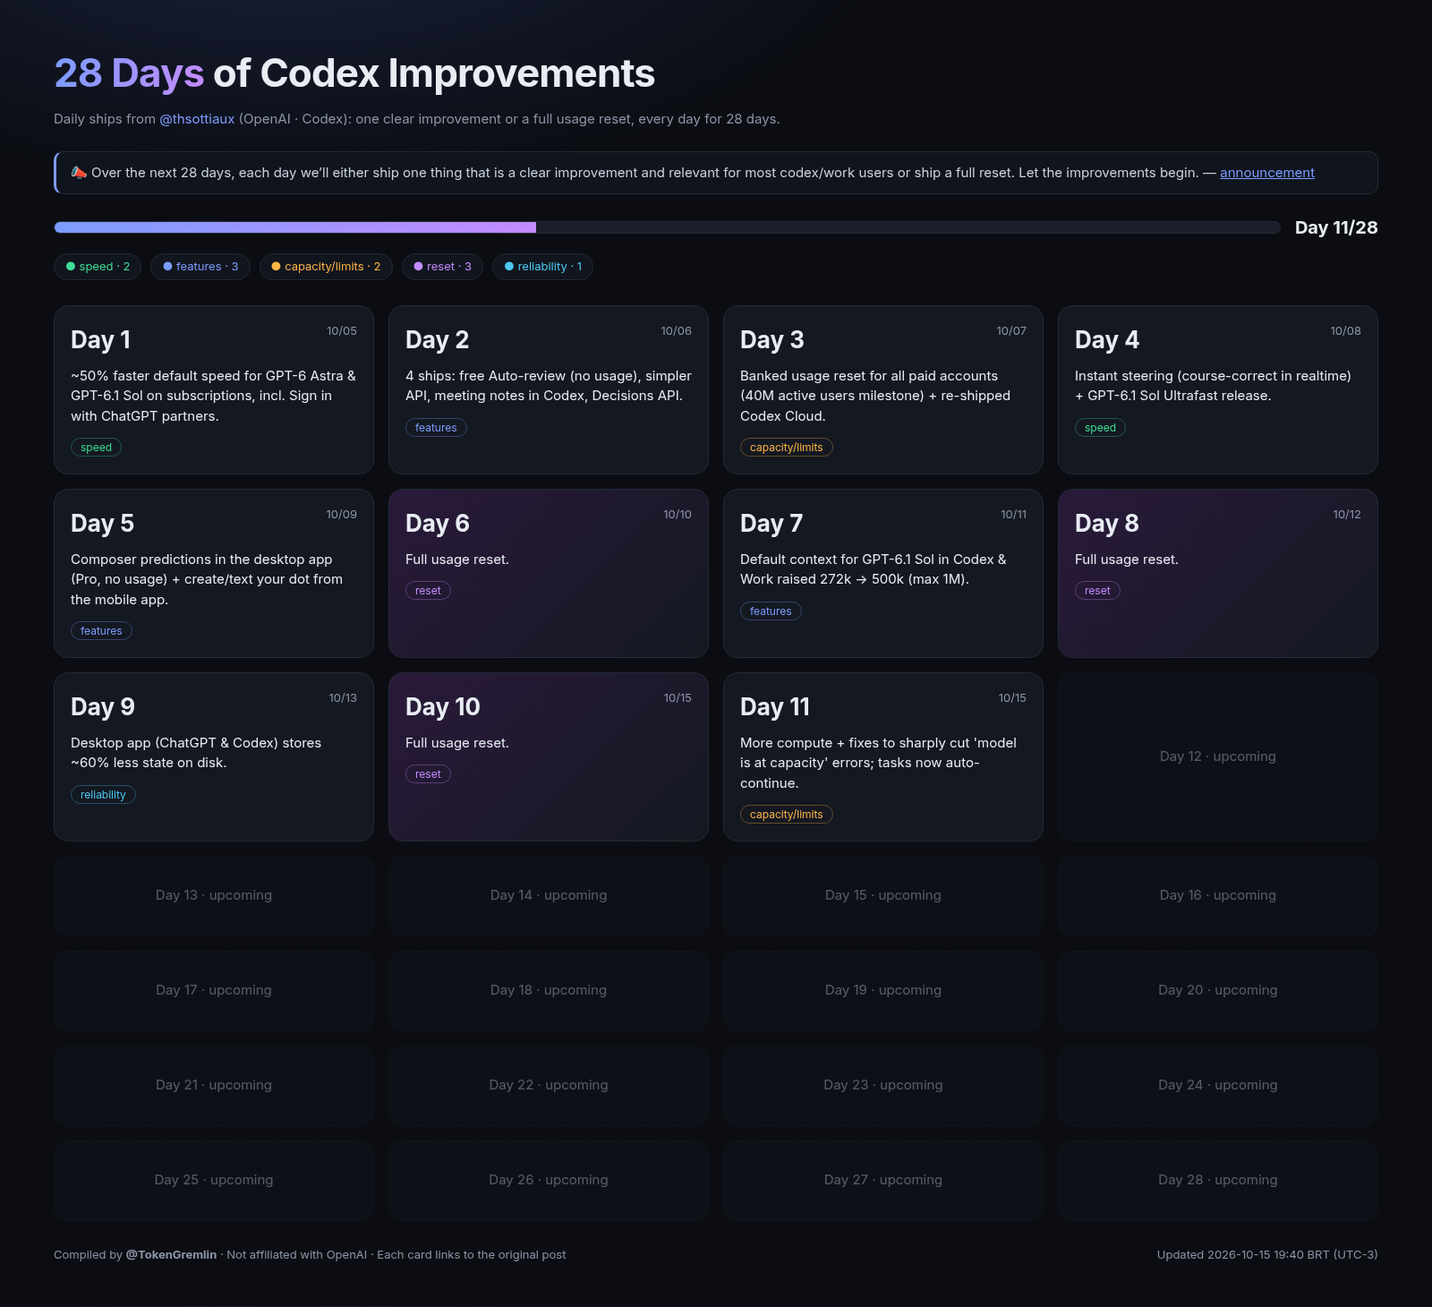
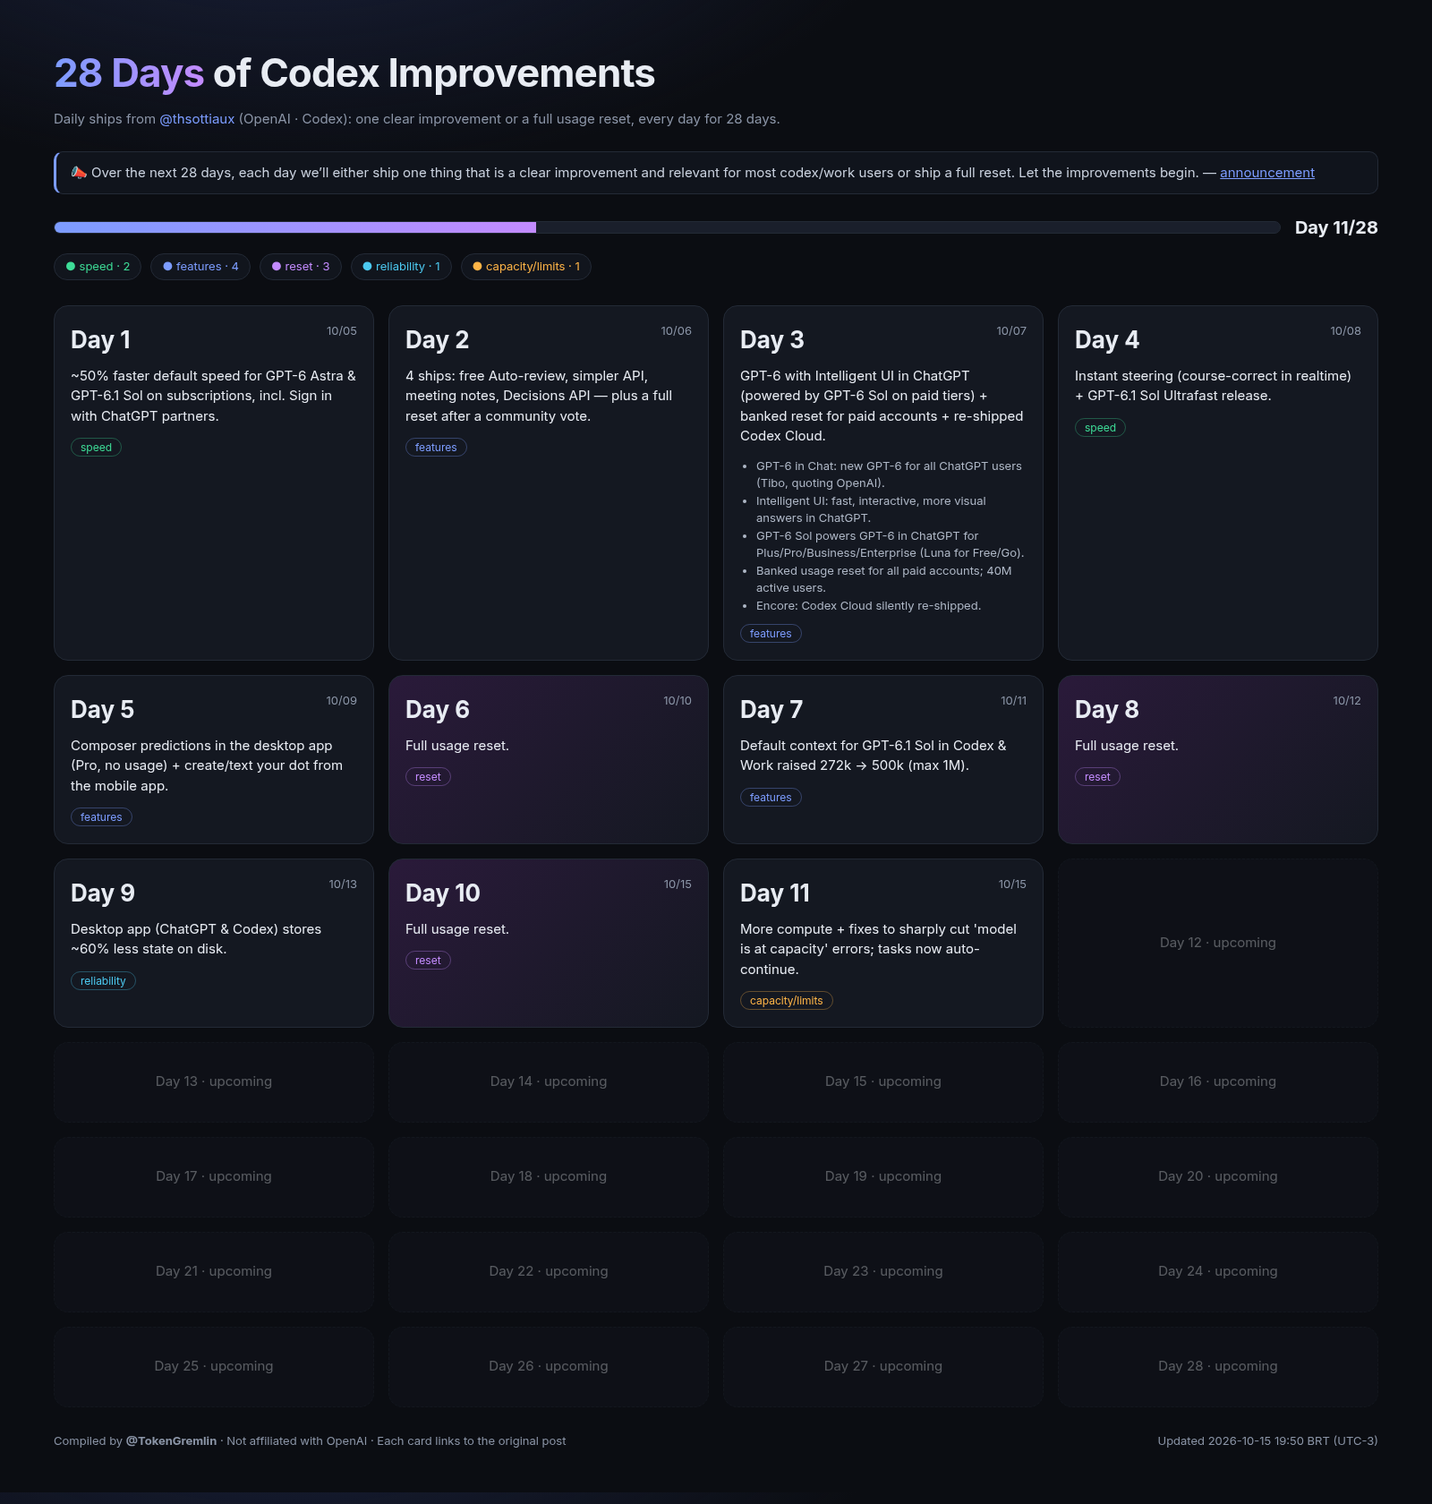
Fix Day 3 and add missed details

diff --git a/index.html b/index.html
@@ -25,7 +25,7 @@ footer{margin-top:28px;color:var(--mut);font-size:13px;display:flex;justify-cont
 <div class="legend" id="legend"></div><div class="grid" id="grid"></div>
 <footer><span>Compiled by <b>@TokenGremlin</b> · Not affiliated with OpenAI · Each card links to the original post</span><span id="upd"></span></footer>
 </div>
-<script id="embedded" type="application/json">{"title": "28 Days of Codex Improvements", "author": "@thsottiaux", "compiled_by": "@TokenGremlin", "timezone": "BRT (UTC-3)", "updated": "2026-10-15 19:40", "total": 28, "announcement": {"date": "2026-10-04 17:33", "url": "https://x.com/i/status/2106845241357824205", "text": "Over the next 28 days, each day we’ll either ship one thing that is a clear improvement and relevant for most codex/work users or ship a full reset. Let the improvements begin."}, "days": [{"day": 1, "date": "2026-10-05 14:20", "ids": ["2107158998495748264"], "category": "speed", "text": "Day 1/\n\nWe have optimized the default speed to be ~50% faster across GPT-6 Astra and GPT-6.1 Sol through the subscription across all our products and partners using Sign in With ChatGPT (including OpenCode, Pi, Amp, Devin, ...).\n\nNo changes needed on your end and this should be felt within the next two hours.", "en": "~50% faster default speed for GPT-6 Astra & GPT-6.1 Sol on subscriptions, incl. Sign in with ChatGPT partners.", "pt": "Velocidade padrão ~50% maior no GPT-6 Astra e GPT-6.1 Sol nas assinaturas, inclusive parceiros (OpenCode, Amp, Devin…).", "url": "https://x.com/i/status/2107158998495748264", "urls": ["https://x.com/i/status/2107158998495748264"]}, {"day": 2, "date": "2026-10-06 04:13", "ids": ["2107368734981517634", "2107548725359104441", "2107573405553938664", "2107574912349303197", "2107575657014468879"], "category": "features", "text": "Roundup of Day 2/\n\n2.1/ Approve for me (auto-review) is now included and does not use usage. Can be between 2-10% of plan when used. Also better for you.\n2.2/ Simplified API for builders.\n2.3/ Meeting notes integrated.\n2.4/ Decisions API live for builders. Will use in the app to improve the experience.", "en": "4 ships: free Auto-review (no usage), simpler API, meeting notes in Codex, Decisions API.", "pt": "4 entregas: Auto-review grátis (sem gastar uso), API simplificada, notas de reunião no Codex e Decisions API.", "note": "Posted as Day 2.1–2.4 (Oct 6, 04:13–17:53 BRT) plus a roundup; followed by a poll 'Four updates or a reset'.", "url": "https://x.com/i/status/2107368734981517634", "urls": ["https://x.com/i/status/2107368734981517634", "https://x.com/i/status/2107548725359104441", "https://x.com/i/status/2107573405553938664", "https://x.com/i/status/2107574912349303197", "https://x.com/i/status/2107575657014468879"]}, {"day": 3, "date": "2026-10-07 16:19", "ids": ["2107913674593644711", "2108084615349170480"], "category": "capacity/limits", "text": "Day 3/\n\nThe big one is GPT-6 in Chat, but today is also a little celebration day with a new high of 40M active users across Codex and ChatGPT Work.\n\nLoading a banked reset in everyone's paid accounts. See you again tomorrow!\n\n---\nDay 3 (encore)/\n\nWe silently re-shipped codex cloud. It’s pretty good now", "en": "Banked usage reset for all paid accounts (40M active users milestone) + re-shipped Codex Cloud.", "pt": "Reset de uso “guardado” em todas as contas pagas (marco de 40M usuários) + Codex Cloud relançado.", "url": "https://x.com/i/status/2107913674593644711", "urls": ["https://x.com/i/status/2107913674593644711", "https://x.com/i/status/2108084615349170480"]}, {"day": 4, "date": "2026-10-08 16:15", "ids": ["2108275041276420573"], "category": "speed", "text": "Day 4/\n\nWe have improved steering to be instant, leading to the model now reacting much faster to adjustments you make, allowing you to course-correct direction in realtime and not have the model waste effort.\n\nAlso releasing GPT-6.1 Sol ultrafast. The two work very well together.", "en": "Instant steering (course-correct in realtime) + GPT-6.1 Sol Ultrafast release.", "pt": "Steering instantâneo (corrigir o rumo em tempo real) + lançamento do GPT-6.1 Sol Ultrafast.", "url": "https://x.com/i/status/2108275041276420573", "urls": ["https://x.com/i/status/2108275041276420573"]}, {"day": 5, "date": "2026-10-09 16:47", "ids": ["2108645667451318747", "2108646052178092403"], "category": "features", "text": "Day 5/\n\nComposer predictions in the desktop app. Often leads to a double take with how on point they are. Included in the Pro plans without consuming usage.\n\n---\nDay 5 (dots edition)/\n\nYou can now create and text your dot entirely from the ChatGPT mobile app. Impressed so many created them via the desktop/web app previously. Time to scale!", "en": "Composer predictions in the desktop app (Pro, no usage) + create/text your dot from the mobile app.", "pt": "Previsões no composer do app desktop (Pro, sem gastar uso) + criar e conversar com seu dot no app mobile.", "url": "https://x.com/i/status/2108645667451318747", "urls": ["https://x.com/i/status/2108645667451318747", "https://x.com/i/status/2108646052178092403"]}, {"day": 6, "date": "2026-10-10 19:15", "ids": ["2109045220411351517"], "category": "reset", "text": "Day 6/ Reset", "en": "Full usage reset.", "pt": "Reset completo de uso.", "url": "https://x.com/i/status/2109045220411351517", "urls": ["https://x.com/i/status/2109045220411351517"]}, {"day": 7, "date": "2026-10-11 20:45", "ids": ["2109430343346581527"], "category": "features", "text": "Day 7/\n\nWe have increased default context length for GPT-6.1 Sol to 500k when used through Codex & Work, up from 272k or an ~ 80% increase.\n\nWe will go higher in the future, but it helps reduce occurrence of compactions and with tasks that require keeping a lot of context and nuance over periods of time. It was carefully tested and is the new sweet spot for most of our users. You can still override it if you want to be higher our lower, with maximum context length of GPT-6.1 Sol of 1M.", "en": "Default context for GPT-6.1 Sol in Codex & Work raised 272k → 500k (max 1M).", "pt": "Contexto padrão do GPT-6.1 Sol no Codex e Work subiu de 272k pra 500k (máx. 1M).", "url": "https://x.com/i/status/2109430343346581527", "urls": ["https://x.com/i/status/2109430343346581527"]}, {"day": 8, "date": "2026-10-12 22:03", "ids": ["2109812216212099456"], "category": "reset", "text": "Day 8/ Reset", "en": "Full usage reset.", "pt": "Reset completo de uso.", "url": "https://x.com/i/status/2109812216212099456", "urls": ["https://x.com/i/status/2109812216212099456"]}, {"day": 9, "date": "2026-10-13 20:32", "ids": ["2110151780478927344"], "category": "reliability", "text": "Day 9/\n\nWe've rolled out optimizations to how we store state on disk for the chatgpt & codex desktop app that should reduce the amount stored on disk by 60%. Small ship but we've heard enough feedback about power users running out of disk space.", "en": "Desktop app (ChatGPT & Codex) stores ~60% less state on disk.", "pt": "App desktop (ChatGPT e Codex) passa a ocupar ~60% menos espaço em disco.", "note": "Same text was first posted 20s earlier mislabeled 'Day 8/' (2110151690641154499).", "url": "https://x.com/i/status/2110151780478927344", "urls": ["https://x.com/i/status/2110151780478927344"]}, {"day": 10, "date": "2026-10-15 01:55", "ids": ["2110595484180214059"], "category": "reset", "text": "The reports of my reset button being lost are greatly exaggerated\n\nDay 10/ Reset", "en": "Full usage reset.", "pt": "Reset completo de uso.", "url": "https://x.com/i/status/2110595484180214059", "urls": ["https://x.com/i/status/2110595484180214059"]}, {"day": 11, "date": "2026-10-15 12:11", "ids": ["2110750421367287996"], "category": "capacity/limits", "text": "Day 11/\n\nWe've landed a series of changes and more compute to very significantly decrease the occurrence of the disruptive \"Selected model is at capacity. Please try a different model\". When it does happen, it should also eventually just continue by itself and not just block on it.\n\nLet us know if you still see it out there in the wild and we'll take a look.", "en": "More compute + fixes to sharply cut 'model is at capacity' errors; tasks now auto-continue.", "pt": "Mais compute e ajustes pra reduzir muito o erro “model is at capacity”; agora a tarefa continua sozinha.", "url": "https://x.com/i/status/2110750421367287996", "urls": ["https://x.com/i/status/2110750421367287996"]}]}</script>
+<script id="embedded" type="application/json">{"title": "28 Days of Codex Improvements", "author": "@thsottiaux", "compiled_by": "@TokenGremlin", "timezone": "BRT (UTC-3)", "updated": "2026-10-15 19:50", "total": 28, "announcement": {"date": "2026-10-04 17:33", "url": "https://x.com/i/status/2106845241357824205", "text": "Over the next 28 days, each day we’ll either ship one thing that is a clear improvement and relevant for most codex/work users or ship a full reset. Let the improvements begin."}, "days": [{"day": 1, "date": "2026-10-05 14:20", "ids": ["2107158998495748264"], "category": "speed", "text": "Day 1/\n\nWe have optimized the default speed to be ~50% faster across GPT-6 Astra and GPT-6.1 Sol through the subscription across all our products and partners using Sign in With ChatGPT (including OpenCode, Pi, Amp, Devin, ...).\n\nNo changes needed on your end and this should be felt within the next two hours.", "en": "~50% faster default speed for GPT-6 Astra & GPT-6.1 Sol on subscriptions, incl. Sign in with ChatGPT partners.", "pt": "Velocidade padrão ~50% maior no GPT-6 Astra e GPT-6.1 Sol nas assinaturas, inclusive parceiros (OpenCode, Amp, Devin…).", "url": "https://x.com/i/status/2107158998495748264", "urls": ["https://x.com/i/status/2107158998495748264"], "items": [{"en": "Reply: reaching 50 TPS instead of 30 TPS, with a highly optimized tokenizer.", "pt": "Resposta: 50 TPS em vez de 30 TPS, com tokenizer bem otimizado.", "url": "https://x.com/i/status/2107159119107146237"}]}, {"day": 2, "date": "2026-10-06 04:13", "ids": ["2107368734981517634", "2107548725359104441", "2107573405553938664", "2107574912349303197", "2107575657014468879", "2107676072871600470"], "category": "features", "text": "Roundup of Day 2/\n\n2.1/ Approve for me (auto-review) is now included and does not use usage. Can be between 2-10% of plan when used. Also better for you.\n2.2/ Simplified API for builders.\n2.3/ Meeting notes integrated.\n2.4/ Decisions API live for builders. Will use in the app to improve the experience.", "en": "4 ships: free Auto-review, simpler API, meeting notes, Decisions API — plus a full reset after a community vote.", "pt": "4 entregas: Auto-review grátis, API simplificada, notas de reunião, Decisions API — e ainda um reset completo após votação.", "note": "Posted as Day 2.1–2.4 (Oct 6, 04:13–17:53 BRT) plus a roundup; followed by a poll 'Four updates or a reset'.", "url": "https://x.com/i/status/2107368734981517634", "urls": ["https://x.com/i/status/2107368734981517634", "https://x.com/i/status/2107548725359104441", "https://x.com/i/status/2107573405553938664", "https://x.com/i/status/2107574912349303197", "https://x.com/i/status/2107575657014468879", "https://x.com/i/status/2107676072871600470"], "items": [{"en": "Vote won by 'reset': full usage reset processed, improvements kept.", "pt": "A votação deu 'reset': reset completo feito, sem desfazer as melhorias.", "url": "https://x.com/i/status/2107676072871600470"}]}, {"day": 3, "date": "2026-10-07 16:19", "ids": ["2107913674593644711", "2108084615349170480", "2107912709715132482", "2107894997538525580", "2107895006350791071"], "category": "features", "text": "Day 3/\n\nThe big one is GPT-6 in Chat, but today is also a little celebration day with a new high of 40M active users across Codex and ChatGPT Work.\n\nLoading a banked reset in everyone's paid accounts. See you again tomorrow!\n\n---\nDay 3 (encore)/\n\nWe silently re-shipped codex cloud. It’s pretty good now", "en": "GPT-6 with Intelligent UI in ChatGPT (powered by GPT-6 Sol on paid tiers) + banked reset for paid accounts + re-shipped Codex Cloud.", "pt": "GPT-6 com Intelligent UI no ChatGPT (GPT-6 Sol nos planos pagos) + reset guardado nas contas pagas + Codex Cloud relançado.", "url": "https://x.com/i/status/2107913674593644711", "urls": ["https://x.com/i/status/2107913674593644711", "https://x.com/i/status/2108084615349170480", "https://x.com/i/status/2107912709715132482", "https://x.com/i/status/2107894997538525580", "https://x.com/i/status/2107895006350791071"], "items": [{"en": "GPT-6 in Chat: new GPT-6 for all ChatGPT users (Tibo, quoting OpenAI).", "pt": "GPT-6 no Chat: novo GPT-6 pra todos no ChatGPT (Tibo citando a OpenAI).", "url": "https://x.com/i/status/2107912709715132482"}, {"en": "Intelligent UI: fast, interactive, more visual answers in ChatGPT.", "pt": "Intelligent UI: respostas rápidas, interativas e mais visuais no ChatGPT.", "url": "https://x.com/OpenAI/status/2107894997538525580"}, {"en": "GPT-6 Sol powers GPT-6 in ChatGPT for Plus/Pro/Business/Enterprise (Luna for Free/Go).", "pt": "GPT-6 Sol roda o GPT-6 no ChatGPT pra Plus/Pro/Business/Enterprise (Luna no Free/Go).", "url": "https://x.com/OpenAI/status/2107895006350791071"}, {"en": "Banked usage reset for all paid accounts; 40M active users.", "pt": "Reset guardado em todas as contas pagas; 40M usuários ativos.", "url": "https://x.com/i/status/2107913674593644711"}, {"en": "Encore: Codex Cloud silently re-shipped.", "pt": "Encore: Codex Cloud relançado.", "url": "https://x.com/i/status/2108084615349170480"}], "note": "Tibo's Day 3 post only says 'The big one is GPT-6 in Chat'. OpenAI calls the feature 'Intelligent UI' (not 'Smart UI'); the GPT-6 Sol detail comes from OpenAI's thread."}, {"day": 4, "date": "2026-10-08 16:15", "ids": ["2108275041276420573"], "category": "speed", "text": "Day 4/\n\nWe have improved steering to be instant, leading to the model now reacting much faster to adjustments you make, allowing you to course-correct direction in realtime and not have the model waste effort.\n\nAlso releasing GPT-6.1 Sol ultrafast. The two work very well together.", "en": "Instant steering (course-correct in realtime) + GPT-6.1 Sol Ultrafast release.", "pt": "Steering instantâneo (corrigir o rumo em tempo real) + lançamento do GPT-6.1 Sol Ultrafast.", "url": "https://x.com/i/status/2108275041276420573", "urls": ["https://x.com/i/status/2108275041276420573"]}, {"day": 5, "date": "2026-10-09 16:47", "ids": ["2108645667451318747", "2108646052178092403"], "category": "features", "text": "Day 5/\n\nComposer predictions in the desktop app. Often leads to a double take with how on point they are. Included in the Pro plans without consuming usage.\n\n---\nDay 5 (dots edition)/\n\nYou can now create and text your dot entirely from the ChatGPT mobile app. Impressed so many created them via the desktop/web app previously. Time to scale!", "en": "Composer predictions in the desktop app (Pro, no usage) + create/text your dot from the mobile app.", "pt": "Previsões no composer do app desktop (Pro, sem gastar uso) + criar e conversar com seu dot no app mobile.", "url": "https://x.com/i/status/2108645667451318747", "urls": ["https://x.com/i/status/2108645667451318747", "https://x.com/i/status/2108646052178092403"]}, {"day": 6, "date": "2026-10-10 19:15", "ids": ["2109045220411351517"], "category": "reset", "text": "Day 6/ Reset", "en": "Full usage reset.", "pt": "Reset completo de uso.", "url": "https://x.com/i/status/2109045220411351517", "urls": ["https://x.com/i/status/2109045220411351517"]}, {"day": 7, "date": "2026-10-11 20:45", "ids": ["2109430343346581527"], "category": "features", "text": "Day 7/\n\nWe have increased default context length for GPT-6.1 Sol to 500k when used through Codex & Work, up from 272k or an ~ 80% increase.\n\nWe will go higher in the future, but it helps reduce occurrence of compactions and with tasks that require keeping a lot of context and nuance over periods of time. It was carefully tested and is the new sweet spot for most of our users. You can still override it if you want to be higher our lower, with maximum context length of GPT-6.1 Sol of 1M.", "en": "Default context for GPT-6.1 Sol in Codex & Work raised 272k → 500k (max 1M).", "pt": "Contexto padrão do GPT-6.1 Sol no Codex e Work subiu de 272k pra 500k (máx. 1M).", "url": "https://x.com/i/status/2109430343346581527", "urls": ["https://x.com/i/status/2109430343346581527"], "items": [{"en": "Reply: no long-context fees for GPT-6.1 Sol when drawing usage from the subscription.", "pt": "Resposta: sem taxa de contexto longo no GPT-6.1 Sol usando a assinatura.", "url": "https://x.com/i/status/2109430894604026039"}]}, {"day": 8, "date": "2026-10-12 22:03", "ids": ["2109812216212099456"], "category": "reset", "text": "Day 8/ Reset", "en": "Full usage reset.", "pt": "Reset completo de uso.", "url": "https://x.com/i/status/2109812216212099456", "urls": ["https://x.com/i/status/2109812216212099456"]}, {"day": 9, "date": "2026-10-13 20:32", "ids": ["2110151780478927344"], "category": "reliability", "text": "Day 9/\n\nWe've rolled out optimizations to how we store state on disk for the chatgpt & codex desktop app that should reduce the amount stored on disk by 60%. Small ship but we've heard enough feedback about power users running out of disk space.", "en": "Desktop app (ChatGPT & Codex) stores ~60% less state on disk.", "pt": "App desktop (ChatGPT e Codex) passa a ocupar ~60% menos espaço em disco.", "note": "Same text was first posted 20s earlier mislabeled 'Day 8/' (2110151690641154499).", "url": "https://x.com/i/status/2110151780478927344", "urls": ["https://x.com/i/status/2110151780478927344"]}, {"day": 10, "date": "2026-10-15 01:55", "ids": ["2110595484180214059"], "category": "reset", "text": "The reports of my reset button being lost are greatly exaggerated\n\nDay 10/ Reset", "en": "Full usage reset.", "pt": "Reset completo de uso.", "url": "https://x.com/i/status/2110595484180214059", "urls": ["https://x.com/i/status/2110595484180214059"]}, {"day": 11, "date": "2026-10-15 12:11", "ids": ["2110750421367287996"], "category": "capacity/limits", "text": "Day 11/\n\nWe've landed a series of changes and more compute to very significantly decrease the occurrence of the disruptive \"Selected model is at capacity. Please try a different model\". When it does happen, it should also eventually just continue by itself and not just block on it.\n\nLet us know if you still see it out there in the wild and we'll take a look.", "en": "More compute + fixes to sharply cut 'model is at capacity' errors; tasks now auto-continue.", "pt": "Mais compute e ajustes pra reduzir muito o erro “model is at capacity”; agora a tarefa continua sozinha.", "url": "https://x.com/i/status/2110750421367287996", "urls": ["https://x.com/i/status/2110750421367287996"]}]}</script>
 <script>
 const C={"speed":"#3ddc97","features":"#7c9cff","capacity/limits":"#ffb547","reliability":"#4cc9f0","reset":"#c38bff","pricing":"#ff6b8a"};
 const esc=s=>s.replace(/[&<>"]/g,c=>({"&":"&amp;","<":"&lt;",">":"&gt;",'"':"&quot;"}[c]));
@@ -40,7 +40,7 @@ function render(d){
  for(let i=1;i<=d.total;i++){const x=by[i];
   if(!x){h+=`<div class="card ph">${i<=done?'Day '+i+' · not found':'Day '+i+' · upcoming'}</div>`;continue}
   const c=C[x.category]||"#ccc";
-  h+=`<a class="card ${x.category=='reset'?'reset':''}" href="${x.url}" target="_blank"><div class="n"><b>Day ${x.day}</b><span>${x.date.slice(5,10).replace('-','/')}</span></div><p>${esc(x.en)}</p><span class="tag" style="color:${c};border:1px solid ${c}55">${x.category}</span></a>`}
+  h+=`<a class="card ${x.category=='reset'?'reset':''}" href="${x.url}" target="_blank"><div class="n"><b>Day ${x.day}</b><span>${x.date.slice(5,10).replace('-','/')}</span></div><p>${esc(x.en)}</p>${(x.items||[]).length>1?`<ul style="margin:0 0 10px;padding-left:18px;font-size:13px;color:#aeb7c6">${x.items.map(i=>`<li>${esc(i.en)}</li>`).join("")}</ul>`:""}<span class="tag" style="color:${c};border:1px solid ${c}55">${x.category}</span></a>`}
  grid.innerHTML=h;upd.textContent=`Updated ${d.updated} ${d.timezone}`;
 }
 fetch("data.json",{cache:"no-store"}).then(r=>r.json()).then(render).catch(()=>render(JSON.parse(embedded.textContent)));

diff --git a/template.html b/template.html
@@ -40,7 +40,7 @@ function render(d){
  for(let i=1;i<=d.total;i++){const x=by[i];
   if(!x){h+=`<div class="card ph">${i<=done?'Day '+i+' · not found':'Day '+i+' · upcoming'}</div>`;continue}
   const c=C[x.category]||"#ccc";
-  h+=`<a class="card ${x.category=='reset'?'reset':''}" href="${x.url}" target="_blank"><div class="n"><b>Day ${x.day}</b><span>${x.date.slice(5,10).replace('-','/')}</span></div><p>${esc(x.en)}</p><span class="tag" style="color:${c};border:1px solid ${c}55">${x.category}</span></a>`}
+  h+=`<a class="card ${x.category=='reset'?'reset':''}" href="${x.url}" target="_blank"><div class="n"><b>Day ${x.day}</b><span>${x.date.slice(5,10).replace('-','/')}</span></div><p>${esc(x.en)}</p>${(x.items||[]).length>1?`<ul style="margin:0 0 10px;padding-left:18px;font-size:13px;color:#aeb7c6">${x.items.map(i=>`<li>${esc(i.en)}</li>`).join("")}</ul>`:""}<span class="tag" style="color:${c};border:1px solid ${c}55">${x.category}</span></a>`}
  grid.innerHTML=h;upd.textContent=`Updated ${d.updated} ${d.timezone}`;
 }
 fetch("data.json",{cache:"no-store"}).then(r=>r.json()).then(render).catch(()=>render(JSON.parse(embedded.textContent)));

diff --git a/render.py b/render.py
@@ -6,5 +6,5 @@ html=open(f"{D}/template.html").read().replace("__DATA__",json.dumps(data,ensure
 open(f"{D}/index.html","w").write(html)
 rows=(data["total"]+3)//4
 subprocess.run(["google-chrome","--headless=new","--no-sandbox","--disable-gpu","--hide-scrollbars","--allow-file-access-from-files",
- f"--window-size=1600,{1460+0*rows}",f"--screenshot={D}/visual.png",f"file://{D}/index.html"],check=True,capture_output=True)
+ f"--window-size=1600,{1680+0*rows}",f"--screenshot={D}/visual.png",f"file://{D}/index.html"],check=True,capture_output=True)
 print("ok")
